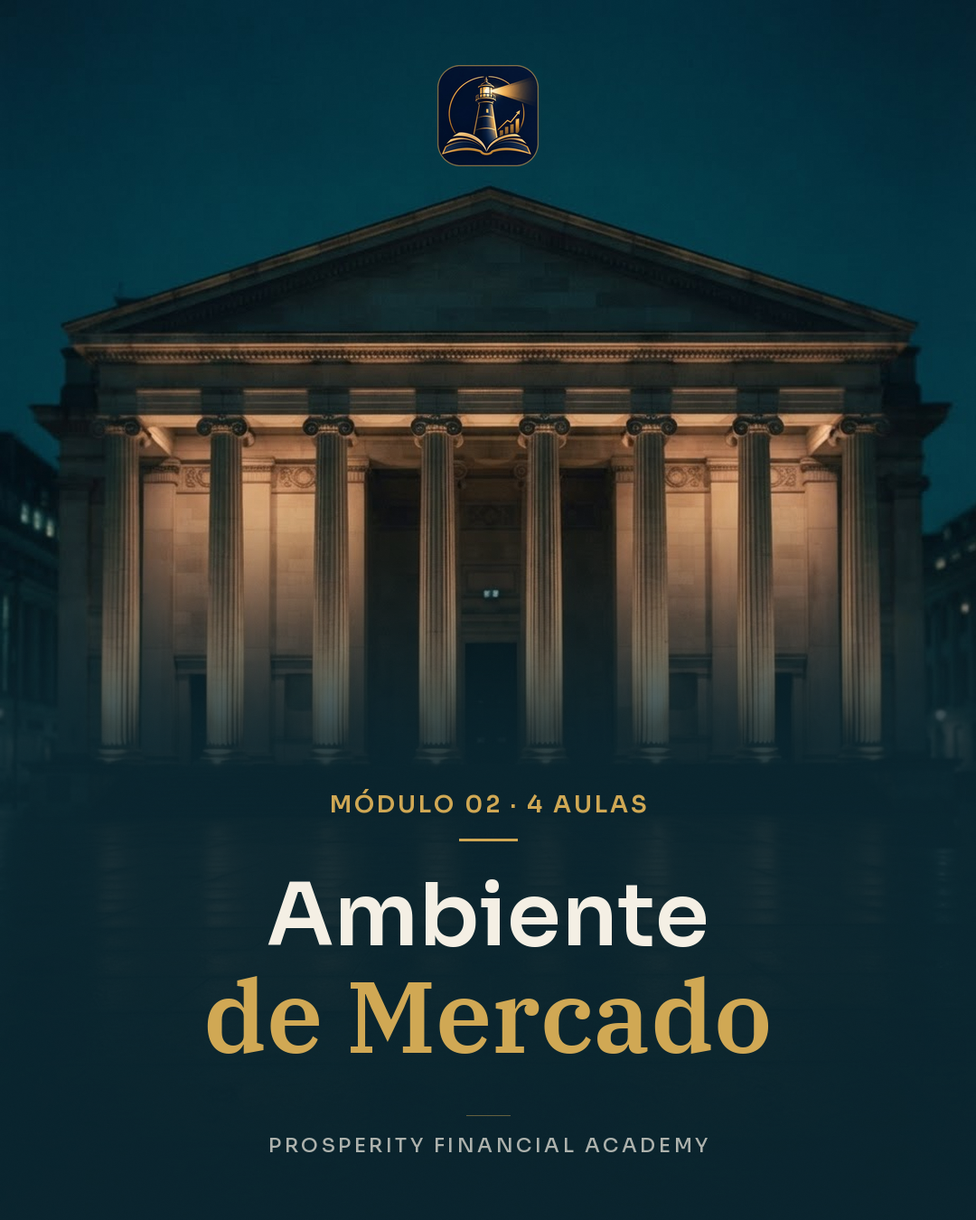
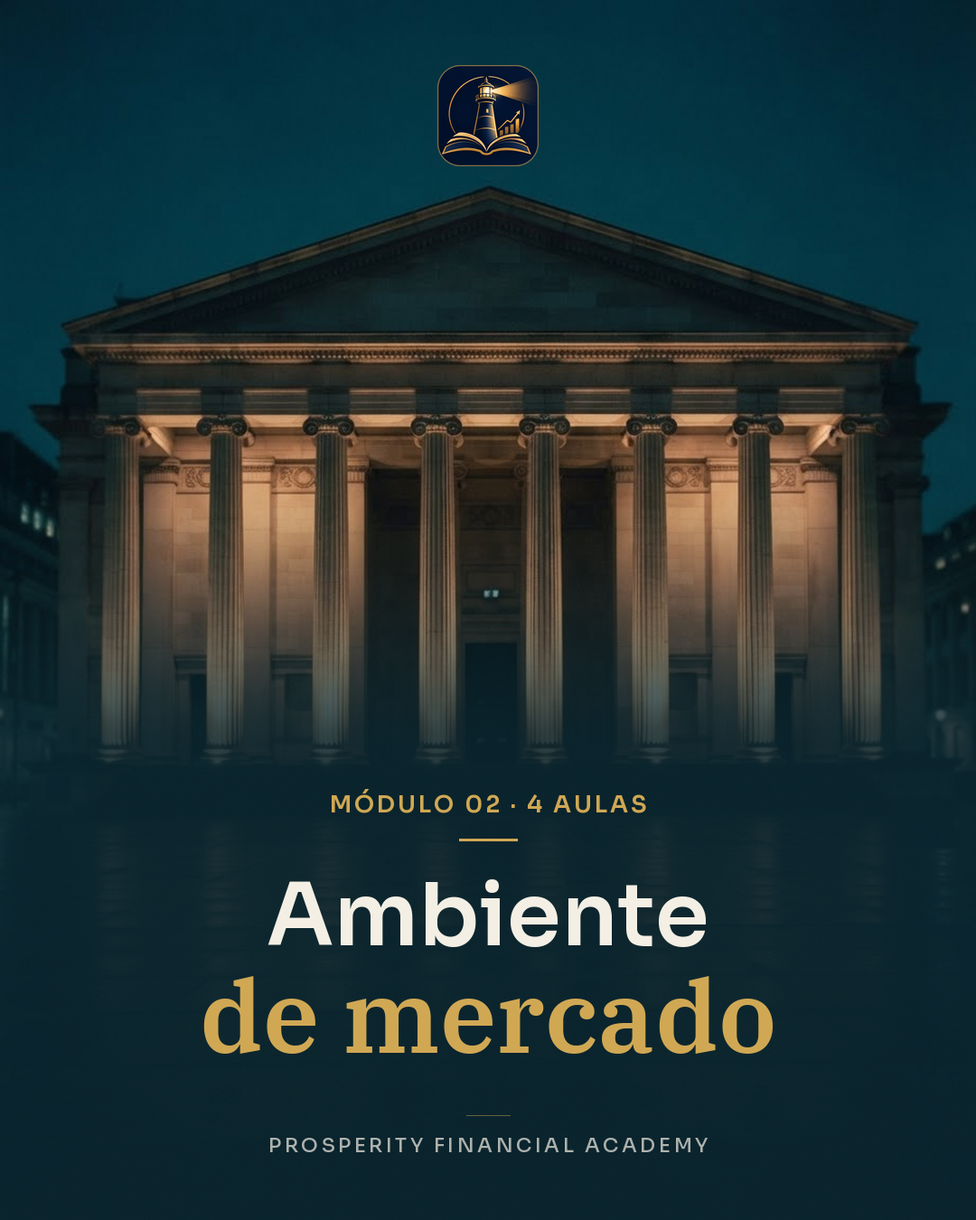
[cc] sandro-preview: renumber module covers to the v3 grid (00-11)
- Member area: Bia's renumbered covers 02 and 06-11 (old 07-12 became 06-11, fundamental analysis out); preview and details pages refreshed from source, keeping noindex, favicon and mobile table scroll
- modulo-12.png no longer referenced (file kept)
- Sales page: new module covers and devices mockups
- Cache bust ?v=20261125b on changed images

Changed region(s): [[0.2139, 0.7778, 0.7944, 0.8711]]

diff --git a/area-de-membros/preview-detalhes.html b/area-de-membros/preview-detalhes.html
@@ -50,12 +50,12 @@ ul{margin:6px 0 6px 20px;padding:0}code{background:#22252d;padding:1px 5px;borde
 <main class="wrap">
 <p><a href="./" style="color:var(--acc)">&larr; voltar à apresentação</a></p>
 <h1>Detalhes técnicos</h1>
-<div class="note"><b>Aprovação, não é a arte final.</b> Preço do checkout é <b>FICTÍCIO</b> (R$ 297 / 12x R$ 24,75). Logo <b>real do Sandro</b> aplicada em 2026-11-25 (selo do farol com livro, de <code>assets/brand/logo-original.jpeg</code>; capas e banners no canto superior, checkout no lockup/topo); versão anterior em <code>_antes-logo-real/</code>, diff de pixel fora da marca = 0 em <code>qa/diff-logo-real.json</code>. Nome comercial do curso: <code>[preencher]</code> (aparece só no bullet 1 do checkout vertical). Ajuste v3 da LP (2026-11-23): 12 módulos e 49 aulas; &quot;relatórios&quot; saiu dos textos, entrou &quot;dividendos&quot;; capa do Módulo 06 (Análise Fundamentalista) fora deste preview, arquivo preservado em <code>artes/modulo-06.png</code>; arte anterior em <code>_aprovada-13m-53a/</code>. Banners de topo, checkout e as 13 capas (v2): fundo fotográfico por IA (nano_banana_lite; 5 + 15 gerações, ~680 créditos no total), texto composto em código; v1 preservada em <code>_v1/</code>. Lateral do checkout agora 1:3 (600x1800).</div>
+<div class="note"><b>Aprovação, não é a arte final.</b> Preço do checkout é <b>FICTÍCIO</b> (R$ 297 / 12x R$ 24,75). Logo <b>real do Sandro</b> aplicada em 2026-11-25 (selo do farol com livro, de <code>assets/brand/logo-original.jpeg</code>; capas e banners no canto superior, checkout no lockup/topo); versão anterior em <code>_antes-logo-real/</code>, diff de pixel fora da marca = 0 em <code>qa/diff-logo-real.json</code>. Nome comercial do curso: <code>[preencher]</code> (aparece só no bullet 1 do checkout vertical). Ajuste v3 da LP (2026-11-23): 12 módulos e 49 aulas; &quot;relatórios&quot; saiu dos textos, entrou &quot;dividendos&quot;; capa da Análise Fundamentalista fora da grade, arquivo preservado em <code>artes/_fora-v3/</code>; arte anterior em <code>_aprovada-13m-53a/</code>. <b>Renumeração v3 (2026-11-25):</b> capas 06 a 11 agora seguem a grade da copy v3 (antigas 07 a 12); só kicker e título mudaram (diff de pixel 0 fora do texto em <code>qa/diff-renumeracao.json</code>); versão anterior em <code>_antes-renumeracao/</code>. Banners de topo, checkout e as 12 capas (v2): fundo fotográfico por IA (nano_banana_lite; 5 + 15 gerações, ~680 créditos no total), texto composto em código; v1 preservada em <code>_v1/</code>. Lateral do checkout agora 1:3 (600x1800).</div>
 <p>
 <a style="color:var(--acc)" href="#antes-depois">Antes x Depois</a> · <a style="color:var(--acc)" href="#mobile">Mobile e alta resolução</a> · <a style="color:var(--acc)" href="#qa">QA</a> · <a style="color:var(--acc)" href="#pendencias">Pendências</a></p>
 
 <h2 id="antes-depois">Antes (v1) x Depois (v2)</h2>
-<div class="pair"><div class="cmp"><figure><a class="zoom" href="banners/_v1/banner-01.png?v=20261125" data-alt="Banner de topo 01 antes"><img src="banners/_v1/banner-01.png?v=20261125" alt="Banner de topo 01 antes (v1)"></a><figcaption><b>Antes (v1, código)</b></figcaption></figure><figure><a class="zoom" href="banners/banner-01.png?v=20261125" data-alt="Banner de topo 01 depois"><img src="banners/banner-01.png?v=20261125" alt="Banner de topo 01 depois (v2)"></a><figcaption><b>Depois (v2, fundo fotográfico)</b></figcaption></figure></div><p class="lab">Banner de topo 01 <small>1920x800</small></p></div><div class="pair"><div class="cmp"><figure><a class="zoom" href="banners/_v1/banner-02.png?v=20261125" data-alt="Banner de topo 02 antes"><img src="banners/_v1/banner-02.png?v=20261125" alt="Banner de topo 02 antes (v1)"></a><figcaption><b>Antes (v1, código)</b></figcaption></figure><figure><a class="zoom" href="banners/banner-02.png?v=20261125" data-alt="Banner de topo 02 depois"><img src="banners/banner-02.png?v=20261125" alt="Banner de topo 02 depois (v2)"></a><figcaption><b>Depois (v2, fundo fotográfico)</b></figcaption></figure></div><p class="lab">Banner de topo 02 <small>1920x800</small></p></div><div class="pair"><div class="cmp"><figure><a class="zoom" href="banners/_v1/banner-03.png?v=20261125" data-alt="Banner de topo 03 antes"><img src="banners/_v1/banner-03.png?v=20261125" alt="Banner de topo 03 antes (v1)"></a><figcaption><b>Antes (v1, código)</b></figcaption></figure><figure><a class="zoom" href="banners/banner-03.png?v=20261125" data-alt="Banner de topo 03 depois"><img src="banners/banner-03.png?v=20261125" alt="Banner de topo 03 depois (v2)"></a><figcaption><b>Depois (v2, fundo fotográfico)</b></figcaption></figure></div><p class="lab">Banner de topo 03 <small>1920x800</small></p></div><div class="pair"><div class="cmp"><figure><a class="zoom" href="banners/_v1/mobile/banner-01-mobile.png?v=20261125" data-alt="Banner mobile 01 antes"><img src="banners/_v1/mobile/banner-01-mobile.png?v=20261125" alt="Banner mobile 01 antes (v1)"></a><figcaption><b>Antes (v1, código)</b></figcaption></figure><figure><a class="zoom" href="banners/mobile/banner-01-mobile.png?v=20261125" data-alt="Banner mobile 01 depois"><img src="banners/mobile/banner-01-mobile.png?v=20261125" alt="Banner mobile 01 depois (v2)"></a><figcaption><b>Depois (v2, fundo fotográfico)</b></figcaption></figure></div><p class="lab">Banner mobile 01 <small>768x432</small></p></div><div class="pair"><div class="cmp"><figure><a class="zoom" href="banners/_v1/mobile/banner-02-mobile.png?v=20261125" data-alt="Banner mobile 02 antes"><img src="banners/_v1/mobile/banner-02-mobile.png?v=20261125" alt="Banner mobile 02 antes (v1)"></a><figcaption><b>Antes (v1, código)</b></figcaption></figure><figure><a class="zoom" href="banners/mobile/banner-02-mobile.png?v=20261125" data-alt="Banner mobile 02 depois"><img src="banners/mobile/banner-02-mobile.png?v=20261125" alt="Banner mobile 02 depois (v2)"></a><figcaption><b>Depois (v2, fundo fotográfico)</b></figcaption></figure></div><p class="lab">Banner mobile 02 <small>768x432</small></p></div><div class="pair"><div class="cmp"><figure><a class="zoom" href="banners/_v1/mobile/banner-03-mobile.png?v=20261125" data-alt="Banner mobile 03 antes"><img src="banners/_v1/mobile/banner-03-mobile.png?v=20261125" alt="Banner mobile 03 antes (v1)"></a><figcaption><b>Antes (v1, código)</b></figcaption></figure><figure><a class="zoom" href="banners/mobile/banner-03-mobile.png?v=20261125" data-alt="Banner mobile 03 depois"><img src="banners/mobile/banner-03-mobile.png?v=20261125" alt="Banner mobile 03 depois (v2)"></a><figcaption><b>Depois (v2, fundo fotográfico)</b></figcaption></figure></div><p class="lab">Banner mobile 03 <small>768x432</small></p></div><div class="pair"><div class="cmp"><figure><a class="zoom" href="checkout/_v1/checkout-horizontal-com-preco-1920x640.png?v=20261125" data-alt="Checkout horizontal COM preço antes"><img src="checkout/_v1/checkout-horizontal-com-preco-1920x640.png?v=20261125" alt="Checkout horizontal COM preço antes (v1)"></a><figcaption><b>Antes (v1, código)</b></figcaption></figure><figure><a class="zoom" href="checkout/checkout-horizontal-com-preco-1920x640.png?v=20261125" data-alt="Checkout horizontal COM preço depois"><img src="checkout/checkout-horizontal-com-preco-1920x640.png?v=20261125" alt="Checkout horizontal COM preço depois (v2)"></a><figcaption><b>Depois (v2, fundo fotográfico)</b></figcaption></figure></div><p class="lab">Checkout horizontal COM preço <small>1920x640 (entrega 1140x380)</small></p></div><div class="pair"><div class="cmp"><figure><a class="zoom" href="checkout/_v1/checkout-horizontal-sem-preco-1920x640.png?v=20261125" data-alt="Checkout horizontal SEM preço antes"><img src="checkout/_v1/checkout-horizontal-sem-preco-1920x640.png?v=20261125" alt="Checkout horizontal SEM preço antes (v1)"></a><figcaption><b>Antes (v1, código)</b></figcaption></figure><figure><a class="zoom" href="checkout/checkout-horizontal-sem-preco-1920x640.png?v=20261125" data-alt="Checkout horizontal SEM preço depois"><img src="checkout/checkout-horizontal-sem-preco-1920x640.png?v=20261125" alt="Checkout horizontal SEM preço depois (v2)"></a><figcaption><b>Depois (v2, fundo fotográfico)</b></figcaption></figure></div><p class="lab">Checkout horizontal SEM preço <small>1920x640 (entrega 1140x380)</small></p></div><div class="pair"><div class="cmp"><figure><a class="zoom" href="checkout/_v1/vertical-1080x1350-foto/checkout-vertical-com-preco.png?v=20261125" data-alt="Checkout lateral COM preço antes"><img src="checkout/_v1/vertical-1080x1350-foto/checkout-vertical-com-preco.png?v=20261125" alt="Checkout lateral COM preço antes (v1)"></a><figcaption><b>Antes (1080x1350, 4:5)</b></figcaption></figure><figure><a class="zoom" href="checkout/checkout-vertical-com-preco.png?v=20261125" data-alt="Checkout lateral COM preço depois"><img src="checkout/checkout-vertical-com-preco.png?v=20261125" alt="Checkout lateral COM preço depois (v2)"></a><figcaption><b>Depois (600x1800, 1:3)</b></figcaption></figure></div><p class="lab">Checkout lateral COM preço <small>1080x1350 (4:5) -> 600x1800 (1:3)</small></p></div><div class="pair"><div class="cmp"><figure><a class="zoom" href="checkout/_v1/vertical-1080x1350-foto/checkout-vertical-sem-preco.png?v=20261125" data-alt="Checkout lateral SEM preço antes"><img src="checkout/_v1/vertical-1080x1350-foto/checkout-vertical-sem-preco.png?v=20261125" alt="Checkout lateral SEM preço antes (v1)"></a><figcaption><b>Antes (1080x1350, 4:5)</b></figcaption></figure><figure><a class="zoom" href="checkout/checkout-vertical-sem-preco.png?v=20261125" data-alt="Checkout lateral SEM preço depois"><img src="checkout/checkout-vertical-sem-preco.png?v=20261125" alt="Checkout lateral SEM preço depois (v2)"></a><figcaption><b>Depois (600x1800, 1:3)</b></figcaption></figure></div><p class="lab">Checkout lateral SEM preço <small>1080x1350 (4:5) -> 600x1800 (1:3)</small></p></div><div class="pair"><div class="cmp"><figure><a class="zoom" href="artes/_v1/modulo-00.png?v=20261125" data-alt="Capa módulo 00 - Comece por aqui antes"><img src="artes/_v1/modulo-00.png?v=20261125" alt="Capa módulo 00 - Comece por aqui antes (v1)"></a><figcaption><b>Antes (v1, ilustração em código)</b></figcaption></figure><figure><a class="zoom" href="artes/modulo-00.png?v=20261125" data-alt="Capa módulo 00 - Comece por aqui depois"><img src="artes/modulo-00.png?v=20261125" alt="Capa módulo 00 - Comece por aqui depois (v2)"></a><figcaption><b>Depois (v2, fundo fotográfico)</b></figcaption></figure></div><p class="lab">Capa módulo 00 - Comece por aqui <small>1080x1350</small></p></div><div class="pair"><div class="cmp"><figure><a class="zoom" href="artes/_v1/modulo-01.png?v=20261125" data-alt="Capa módulo 01 - Boas-vindas antes"><img src="artes/_v1/modulo-01.png?v=20261125" alt="Capa módulo 01 - Boas-vindas antes (v1)"></a><figcaption><b>Antes (v1, ilustração em código)</b></figcaption></figure><figure><a class="zoom" href="artes/modulo-01.png?v=20261125" data-alt="Capa módulo 01 - Boas-vindas depois"><img src="artes/modulo-01.png?v=20261125" alt="Capa módulo 01 - Boas-vindas depois (v2)"></a><figcaption><b>Depois (v2, fundo fotográfico)</b></figcaption></figure></div><p class="lab">Capa módulo 01 - Boas-vindas <small>1080x1350</small></p></div><div class="pair"><div class="cmp"><figure><a class="zoom" href="artes/_v1/modulo-02.png?v=20261125" data-alt="Capa módulo 02 - Ambiente de Mercado antes"><img src="artes/_v1/modulo-02.png?v=20261125" alt="Capa módulo 02 - Ambiente de Mercado antes (v1)"></a><figcaption><b>Antes (v1, ilustração em código)</b></figcaption></figure><figure><a class="zoom" href="artes/modulo-02.png?v=20261125" data-alt="Capa módulo 02 - Ambiente de Mercado depois"><img src="artes/modulo-02.png?v=20261125" alt="Capa módulo 02 - Ambiente de Mercado depois (v2)"></a><figcaption><b>Depois (v2, fundo fotográfico)</b></figcaption></figure></div><p class="lab">Capa módulo 02 - Ambiente de Mercado <small>1080x1350</small></p></div><div class="pair"><div class="cmp"><figure><a class="zoom" href="artes/_v1/modulo-03.png?v=20261125" data-alt="Capa módulo 03 - Mercado de ações antes"><img src="artes/_v1/modulo-03.png?v=20261125" alt="Capa módulo 03 - Mercado de ações antes (v1)"></a><figcaption><b>Antes (v1, ilustração em código)</b></figcaption></figure><figure><a class="zoom" href="artes/modulo-03.png?v=20261125" data-alt="Capa módulo 03 - Mercado de ações depois"><img src="artes/modulo-03.png?v=20261125" alt="Capa módulo 03 - Mercado de ações depois (v2)"></a><figcaption><b>Depois (v2, fundo fotográfico)</b></figcaption></figure></div><p class="lab">Capa módulo 03 - Mercado de ações <small>1080x1350</small></p></div><div class="pair"><div class="cmp"><figure><a class="zoom" href="artes/_v1/modulo-04.png?v=20261125" data-alt="Capa módulo 04 - Plataforma de negociação antes"><img src="artes/_v1/modulo-04.png?v=20261125" alt="Capa módulo 04 - Plataforma de negociação antes (v1)"></a><figcaption><b>Antes (v1, ilustração em código)</b></figcaption></figure><figure><a class="zoom" href="artes/modulo-04.png?v=20261125" data-alt="Capa módulo 04 - Plataforma de negociação depois"><img src="artes/modulo-04.png?v=20261125" alt="Capa módulo 04 - Plataforma de negociação depois (v2)"></a><figcaption><b>Depois (v2, fundo fotográfico)</b></figcaption></figure></div><p class="lab">Capa módulo 04 - Plataforma de negociação <small>1080x1350</small></p></div><div class="pair"><div class="cmp"><figure><a class="zoom" href="artes/_v1/modulo-05.png?v=20261125" data-alt="Capa módulo 05 - Introdução à metodologia antes"><img src="artes/_v1/modulo-05.png?v=20261125" alt="Capa módulo 05 - Introdução à metodologia antes (v1)"></a><figcaption><b>Antes (v1, ilustração em código)</b></figcaption></figure><figure><a class="zoom" href="artes/modulo-05.png?v=20261125" data-alt="Capa módulo 05 - Introdução à metodologia depois"><img src="artes/modulo-05.png?v=20261125" alt="Capa módulo 05 - Introdução à metodologia depois (v2)"></a><figcaption><b>Depois (v2, fundo fotográfico)</b></figcaption></figure></div><p class="lab">Capa módulo 05 - Introdução à metodologia <small>1080x1350</small></p></div><div class="pair"><div class="cmp"><figure><a class="zoom" href="artes/_v1/modulo-06.png?v=20261125" data-alt="Capa módulo 06 - Análise Fundamentalista antes"><img src="artes/_v1/modulo-06.png?v=20261125" alt="Capa módulo 06 - Análise Fundamentalista antes (v1)"></a><figcaption><b>Antes (v1, ilustração em código)</b></figcaption></figure><figure><a class="zoom" href="artes/modulo-06.png?v=20261125" data-alt="Capa módulo 06 - Análise Fundamentalista depois"><img src="artes/modulo-06.png?v=20261125" alt="Capa módulo 06 - Análise Fundamentalista depois (v2)"></a><figcaption><b>Depois (v2, fundo fotográfico)</b></figcaption></figure></div><p class="lab">Capa módulo 06 - Análise Fundamentalista <small>1080x1350</small></p></div><div class="pair"><div class="cmp"><figure><a class="zoom" href="artes/_v1/modulo-07.png?v=20261125" data-alt="Capa módulo 07 - Análise Técnica antes"><img src="artes/_v1/modulo-07.png?v=20261125" alt="Capa módulo 07 - Análise Técnica antes (v1)"></a><figcaption><b>Antes (v1, ilustração em código)</b></figcaption></figure><figure><a class="zoom" href="artes/modulo-07.png?v=20261125" data-alt="Capa módulo 07 - Análise Técnica depois"><img src="artes/modulo-07.png?v=20261125" alt="Capa módulo 07 - Análise Técnica depois (v2)"></a><figcaption><b>Depois (v2, fundo fotográfico)</b></figcaption></figure></div><p class="lab">Capa módulo 07 - Análise Técnica <small>1080x1350</small></p></div><div class="pair"><div class="cmp"><figure><a class="zoom" href="artes/_v1/modulo-08.png?v=20261125" data-alt="Capa módulo 08 - Tributação antes"><img src="artes/_v1/modulo-08.png?v=20261125" alt="Capa módulo 08 - Tributação antes (v1)"></a><figcaption><b>Antes (v1, ilustração em código)</b></figcaption></figure><figure><a class="zoom" href="artes/modulo-08.png?v=20261125" data-alt="Capa módulo 08 - Tributação depois"><img src="artes/modulo-08.png?v=20261125" alt="Capa módulo 08 - Tributação depois (v2)"></a><figcaption><b>Depois (v2, fundo fotográfico)</b></figcaption></figure></div><p class="lab">Capa módulo 08 - Tributação <small>1080x1350</small></p></div><div class="pair"><div class="cmp"><figure><a class="zoom" href="artes/_v1/modulo-09.png?v=20261125" data-alt="Capa módulo 09 - Síntese antes"><img src="artes/_v1/modulo-09.png?v=20261125" alt="Capa módulo 09 - Síntese antes (v1)"></a><figcaption><b>Antes (v1, ilustração em código)</b></figcaption></figure><figure><a class="zoom" href="artes/modulo-09.png?v=20261125" data-alt="Capa módulo 09 - Síntese depois"><img src="artes/modulo-09.png?v=20261125" alt="Capa módulo 09 - Síntese depois (v2)"></a><figcaption><b>Depois (v2, fundo fotográfico)</b></figcaption></figure></div><p class="lab">Capa módulo 09 - Síntese <small>1080x1350</small></p></div><div class="pair"><div class="cmp"><figure><a class="zoom" href="artes/_v1/modulo-10.png?v=20261125" data-alt="Capa módulo 10 - Aula Bônus antes"><img src="artes/_v1/modulo-10.png?v=20261125" alt="Capa módulo 10 - Aula Bônus antes (v1)"></a><figcaption><b>Antes (v1, ilustração em código)</b></figcaption></figure><figure><a class="zoom" href="artes/modulo-10.png?v=20261125" data-alt="Capa módulo 10 - Aula Bônus depois"><img src="artes/modulo-10.png?v=20261125" alt="Capa módulo 10 - Aula Bônus depois (v2)"></a><figcaption><b>Depois (v2, fundo fotográfico)</b></figcaption></figure></div><p class="lab">Capa módulo 10 - Aula Bônus <small>1080x1350</small></p></div><div class="pair"><div class="cmp"><figure><a class="zoom" href="artes/_v1/modulo-11.png?v=20261125" data-alt="Capa módulo 11 - Candle antes"><img src="artes/_v1/modulo-11.png?v=20261125" alt="Capa módulo 11 - Candle antes (v1)"></a><figcaption><b>Antes (v1, ilustração em código)</b></figcaption></figure><figure><a class="zoom" href="artes/modulo-11.png?v=20261125" data-alt="Capa módulo 11 - Candle depois"><img src="artes/modulo-11.png?v=20261125" alt="Capa módulo 11 - Candle depois (v2)"></a><figcaption><b>Depois (v2, fundo fotográfico)</b></figcaption></figure></div><p class="lab">Capa módulo 11 - Candle <small>1080x1350</small></p></div><div class="pair"><div class="cmp"><figure><a class="zoom" href="artes/_v1/modulo-12.png?v=20261125" data-alt="Capa módulo 12 - Materiais complementares antes"><img src="artes/_v1/modulo-12.png?v=20261125" alt="Capa módulo 12 - Materiais complementares antes (v1)"></a><figcaption><b>Antes (v1, ilustração em código)</b></figcaption></figure><figure><a class="zoom" href="artes/modulo-12.png?v=20261125" data-alt="Capa módulo 12 - Materiais complementares depois"><img src="artes/modulo-12.png?v=20261125" alt="Capa módulo 12 - Materiais complementares depois (v2)"></a><figcaption><b>Depois (v2, fundo fotográfico)</b></figcaption></figure></div><p class="lab">Capa módulo 12 - Materiais complementares <small>1080x1350</small></p></div>
+<div class="pair"><div class="cmp"><figure><a class="zoom" href="banners/_v1/banner-01.png?v=20261125" data-alt="Banner de topo 01 antes"><img src="banners/_v1/banner-01.png?v=20261125" alt="Banner de topo 01 antes (v1)"></a><figcaption><b>Antes (v1, código)</b></figcaption></figure><figure><a class="zoom" href="banners/banner-01.png?v=20261125" data-alt="Banner de topo 01 depois"><img src="banners/banner-01.png?v=20261125" alt="Banner de topo 01 depois (v2)"></a><figcaption><b>Depois (v2, fundo fotográfico)</b></figcaption></figure></div><p class="lab">Banner de topo 01 <small>1920x800</small></p></div><div class="pair"><div class="cmp"><figure><a class="zoom" href="banners/_v1/banner-02.png?v=20261125" data-alt="Banner de topo 02 antes"><img src="banners/_v1/banner-02.png?v=20261125" alt="Banner de topo 02 antes (v1)"></a><figcaption><b>Antes (v1, código)</b></figcaption></figure><figure><a class="zoom" href="banners/banner-02.png?v=20261125" data-alt="Banner de topo 02 depois"><img src="banners/banner-02.png?v=20261125" alt="Banner de topo 02 depois (v2)"></a><figcaption><b>Depois (v2, fundo fotográfico)</b></figcaption></figure></div><p class="lab">Banner de topo 02 <small>1920x800</small></p></div><div class="pair"><div class="cmp"><figure><a class="zoom" href="banners/_v1/banner-03.png?v=20261125" data-alt="Banner de topo 03 antes"><img src="banners/_v1/banner-03.png?v=20261125" alt="Banner de topo 03 antes (v1)"></a><figcaption><b>Antes (v1, código)</b></figcaption></figure><figure><a class="zoom" href="banners/banner-03.png?v=20261125" data-alt="Banner de topo 03 depois"><img src="banners/banner-03.png?v=20261125" alt="Banner de topo 03 depois (v2)"></a><figcaption><b>Depois (v2, fundo fotográfico)</b></figcaption></figure></div><p class="lab">Banner de topo 03 <small>1920x800</small></p></div><div class="pair"><div class="cmp"><figure><a class="zoom" href="banners/_v1/mobile/banner-01-mobile.png?v=20261125" data-alt="Banner mobile 01 antes"><img src="banners/_v1/mobile/banner-01-mobile.png?v=20261125" alt="Banner mobile 01 antes (v1)"></a><figcaption><b>Antes (v1, código)</b></figcaption></figure><figure><a class="zoom" href="banners/mobile/banner-01-mobile.png?v=20261125" data-alt="Banner mobile 01 depois"><img src="banners/mobile/banner-01-mobile.png?v=20261125" alt="Banner mobile 01 depois (v2)"></a><figcaption><b>Depois (v2, fundo fotográfico)</b></figcaption></figure></div><p class="lab">Banner mobile 01 <small>768x432</small></p></div><div class="pair"><div class="cmp"><figure><a class="zoom" href="banners/_v1/mobile/banner-02-mobile.png?v=20261125" data-alt="Banner mobile 02 antes"><img src="banners/_v1/mobile/banner-02-mobile.png?v=20261125" alt="Banner mobile 02 antes (v1)"></a><figcaption><b>Antes (v1, código)</b></figcaption></figure><figure><a class="zoom" href="banners/mobile/banner-02-mobile.png?v=20261125" data-alt="Banner mobile 02 depois"><img src="banners/mobile/banner-02-mobile.png?v=20261125" alt="Banner mobile 02 depois (v2)"></a><figcaption><b>Depois (v2, fundo fotográfico)</b></figcaption></figure></div><p class="lab">Banner mobile 02 <small>768x432</small></p></div><div class="pair"><div class="cmp"><figure><a class="zoom" href="banners/_v1/mobile/banner-03-mobile.png?v=20261125" data-alt="Banner mobile 03 antes"><img src="banners/_v1/mobile/banner-03-mobile.png?v=20261125" alt="Banner mobile 03 antes (v1)"></a><figcaption><b>Antes (v1, código)</b></figcaption></figure><figure><a class="zoom" href="banners/mobile/banner-03-mobile.png?v=20261125" data-alt="Banner mobile 03 depois"><img src="banners/mobile/banner-03-mobile.png?v=20261125" alt="Banner mobile 03 depois (v2)"></a><figcaption><b>Depois (v2, fundo fotográfico)</b></figcaption></figure></div><p class="lab">Banner mobile 03 <small>768x432</small></p></div><div class="pair"><div class="cmp"><figure><a class="zoom" href="checkout/_v1/checkout-horizontal-com-preco-1920x640.png?v=20261125" data-alt="Checkout horizontal COM preço antes"><img src="checkout/_v1/checkout-horizontal-com-preco-1920x640.png?v=20261125" alt="Checkout horizontal COM preço antes (v1)"></a><figcaption><b>Antes (v1, código)</b></figcaption></figure><figure><a class="zoom" href="checkout/checkout-horizontal-com-preco-1920x640.png?v=20261125" data-alt="Checkout horizontal COM preço depois"><img src="checkout/checkout-horizontal-com-preco-1920x640.png?v=20261125" alt="Checkout horizontal COM preço depois (v2)"></a><figcaption><b>Depois (v2, fundo fotográfico)</b></figcaption></figure></div><p class="lab">Checkout horizontal COM preço <small>1920x640 (entrega 1140x380)</small></p></div><div class="pair"><div class="cmp"><figure><a class="zoom" href="checkout/_v1/checkout-horizontal-sem-preco-1920x640.png?v=20261125" data-alt="Checkout horizontal SEM preço antes"><img src="checkout/_v1/checkout-horizontal-sem-preco-1920x640.png?v=20261125" alt="Checkout horizontal SEM preço antes (v1)"></a><figcaption><b>Antes (v1, código)</b></figcaption></figure><figure><a class="zoom" href="checkout/checkout-horizontal-sem-preco-1920x640.png?v=20261125" data-alt="Checkout horizontal SEM preço depois"><img src="checkout/checkout-horizontal-sem-preco-1920x640.png?v=20261125" alt="Checkout horizontal SEM preço depois (v2)"></a><figcaption><b>Depois (v2, fundo fotográfico)</b></figcaption></figure></div><p class="lab">Checkout horizontal SEM preço <small>1920x640 (entrega 1140x380)</small></p></div><div class="pair"><div class="cmp"><figure><a class="zoom" href="checkout/_v1/vertical-1080x1350-foto/checkout-vertical-com-preco.png?v=20261125" data-alt="Checkout lateral COM preço antes"><img src="checkout/_v1/vertical-1080x1350-foto/checkout-vertical-com-preco.png?v=20261125" alt="Checkout lateral COM preço antes (v1)"></a><figcaption><b>Antes (1080x1350, 4:5)</b></figcaption></figure><figure><a class="zoom" href="checkout/checkout-vertical-com-preco.png?v=20261125" data-alt="Checkout lateral COM preço depois"><img src="checkout/checkout-vertical-com-preco.png?v=20261125" alt="Checkout lateral COM preço depois (v2)"></a><figcaption><b>Depois (600x1800, 1:3)</b></figcaption></figure></div><p class="lab">Checkout lateral COM preço <small>1080x1350 (4:5) -> 600x1800 (1:3)</small></p></div><div class="pair"><div class="cmp"><figure><a class="zoom" href="checkout/_v1/vertical-1080x1350-foto/checkout-vertical-sem-preco.png?v=20261125" data-alt="Checkout lateral SEM preço antes"><img src="checkout/_v1/vertical-1080x1350-foto/checkout-vertical-sem-preco.png?v=20261125" alt="Checkout lateral SEM preço antes (v1)"></a><figcaption><b>Antes (1080x1350, 4:5)</b></figcaption></figure><figure><a class="zoom" href="checkout/checkout-vertical-sem-preco.png?v=20261125" data-alt="Checkout lateral SEM preço depois"><img src="checkout/checkout-vertical-sem-preco.png?v=20261125" alt="Checkout lateral SEM preço depois (v2)"></a><figcaption><b>Depois (600x1800, 1:3)</b></figcaption></figure></div><p class="lab">Checkout lateral SEM preço <small>1080x1350 (4:5) -> 600x1800 (1:3)</small></p></div><div class="pair"><div class="cmp"><figure><a class="zoom" href="artes/_v1/modulo-00.png?v=20261125" data-alt="Capa módulo 00 - Comece por aqui antes"><img src="artes/_v1/modulo-00.png?v=20261125" alt="Capa módulo 00 - Comece por aqui antes (v1)"></a><figcaption><b>Antes (v1, ilustração em código)</b></figcaption></figure><figure><a class="zoom" href="artes/modulo-00.png?v=20261125" data-alt="Capa módulo 00 - Comece por aqui depois"><img src="artes/modulo-00.png?v=20261125" alt="Capa módulo 00 - Comece por aqui depois (v2)"></a><figcaption><b>Depois (v2, fundo fotográfico)</b></figcaption></figure></div><p class="lab">Capa módulo 00 - Comece por aqui <small>1080x1350</small></p></div><div class="pair"><div class="cmp"><figure><a class="zoom" href="artes/_v1/modulo-01.png?v=20261125" data-alt="Capa módulo 01 - Boas-vindas antes"><img src="artes/_v1/modulo-01.png?v=20261125" alt="Capa módulo 01 - Boas-vindas antes (v1)"></a><figcaption><b>Antes (v1, ilustração em código)</b></figcaption></figure><figure><a class="zoom" href="artes/modulo-01.png?v=20261125" data-alt="Capa módulo 01 - Boas-vindas depois"><img src="artes/modulo-01.png?v=20261125" alt="Capa módulo 01 - Boas-vindas depois (v2)"></a><figcaption><b>Depois (v2, fundo fotográfico)</b></figcaption></figure></div><p class="lab">Capa módulo 01 - Boas-vindas <small>1080x1350</small></p></div><div class="pair"><div class="cmp"><figure><a class="zoom" href="artes/_v1/modulo-02.png?v=20261125" data-alt="Capa módulo 02 - Ambiente de mercado antes"><img src="artes/_v1/modulo-02.png?v=20261125" alt="Capa módulo 02 - Ambiente de mercado antes (v1)"></a><figcaption><b>Antes (v1, ilustração em código)</b></figcaption></figure><figure><a class="zoom" href="artes/modulo-02.png?v=20261125b" data-alt="Capa módulo 02 - Ambiente de mercado depois"><img src="artes/modulo-02.png?v=20261125b" alt="Capa módulo 02 - Ambiente de mercado depois (v2)"></a><figcaption><b>Depois (v2, fundo fotográfico)</b></figcaption></figure></div><p class="lab">Capa módulo 02 - Ambiente de mercado <small>1080x1350</small></p></div><div class="pair"><div class="cmp"><figure><a class="zoom" href="artes/_v1/modulo-03.png?v=20261125" data-alt="Capa módulo 03 - Mercado de ações antes"><img src="artes/_v1/modulo-03.png?v=20261125" alt="Capa módulo 03 - Mercado de ações antes (v1)"></a><figcaption><b>Antes (v1, ilustração em código)</b></figcaption></figure><figure><a class="zoom" href="artes/modulo-03.png?v=20261125" data-alt="Capa módulo 03 - Mercado de ações depois"><img src="artes/modulo-03.png?v=20261125" alt="Capa módulo 03 - Mercado de ações depois (v2)"></a><figcaption><b>Depois (v2, fundo fotográfico)</b></figcaption></figure></div><p class="lab">Capa módulo 03 - Mercado de ações <small>1080x1350</small></p></div><div class="pair"><div class="cmp"><figure><a class="zoom" href="artes/_v1/modulo-04.png?v=20261125" data-alt="Capa módulo 04 - Plataforma de negociação antes"><img src="artes/_v1/modulo-04.png?v=20261125" alt="Capa módulo 04 - Plataforma de negociação antes (v1)"></a><figcaption><b>Antes (v1, ilustração em código)</b></figcaption></figure><figure><a class="zoom" href="artes/modulo-04.png?v=20261125" data-alt="Capa módulo 04 - Plataforma de negociação depois"><img src="artes/modulo-04.png?v=20261125" alt="Capa módulo 04 - Plataforma de negociação depois (v2)"></a><figcaption><b>Depois (v2, fundo fotográfico)</b></figcaption></figure></div><p class="lab">Capa módulo 04 - Plataforma de negociação <small>1080x1350</small></p></div><div class="pair"><div class="cmp"><figure><a class="zoom" href="artes/_v1/modulo-05.png?v=20261125" data-alt="Capa módulo 05 - Introdução à metodologia antes"><img src="artes/_v1/modulo-05.png?v=20261125" alt="Capa módulo 05 - Introdução à metodologia antes (v1)"></a><figcaption><b>Antes (v1, ilustração em código)</b></figcaption></figure><figure><a class="zoom" href="artes/modulo-05.png?v=20261125" data-alt="Capa módulo 05 - Introdução à metodologia depois"><img src="artes/modulo-05.png?v=20261125" alt="Capa módulo 05 - Introdução à metodologia depois (v2)"></a><figcaption><b>Depois (v2, fundo fotográfico)</b></figcaption></figure></div><p class="lab">Capa módulo 05 - Introdução à metodologia <small>1080x1350</small></p></div><div class="pair"><div class="cmp"><figure><a class="zoom" href="artes/_v1/modulo-07.png?v=20261125" data-alt="Capa módulo 06 - Análise técnica antes"><img src="artes/_v1/modulo-07.png?v=20261125" alt="Capa módulo 06 - Análise técnica antes (v1)"></a><figcaption><b>Antes (v1, ilustração em código)</b></figcaption></figure><figure><a class="zoom" href="artes/modulo-06.png?v=20261125b" data-alt="Capa módulo 06 - Análise técnica depois"><img src="artes/modulo-06.png?v=20261125b" alt="Capa módulo 06 - Análise técnica depois (v2)"></a><figcaption><b>Depois (v2, fundo fotográfico)</b></figcaption></figure></div><p class="lab">Capa módulo 06 - Análise técnica <small>1080x1350</small></p></div><div class="pair"><div class="cmp"><figure><a class="zoom" href="artes/_v1/modulo-08.png?v=20261125" data-alt="Capa módulo 07 - Tributação antes"><img src="artes/_v1/modulo-08.png?v=20261125" alt="Capa módulo 07 - Tributação antes (v1)"></a><figcaption><b>Antes (v1, ilustração em código)</b></figcaption></figure><figure><a class="zoom" href="artes/modulo-07.png?v=20261125b" data-alt="Capa módulo 07 - Tributação depois"><img src="artes/modulo-07.png?v=20261125b" alt="Capa módulo 07 - Tributação depois (v2)"></a><figcaption><b>Depois (v2, fundo fotográfico)</b></figcaption></figure></div><p class="lab">Capa módulo 07 - Tributação <small>1080x1350</small></p></div><div class="pair"><div class="cmp"><figure><a class="zoom" href="artes/_v1/modulo-09.png?v=20261125" data-alt="Capa módulo 08 - Síntese antes"><img src="artes/_v1/modulo-09.png?v=20261125" alt="Capa módulo 08 - Síntese antes (v1)"></a><figcaption><b>Antes (v1, ilustração em código)</b></figcaption></figure><figure><a class="zoom" href="artes/modulo-08.png?v=20261125b" data-alt="Capa módulo 08 - Síntese depois"><img src="artes/modulo-08.png?v=20261125b" alt="Capa módulo 08 - Síntese depois (v2)"></a><figcaption><b>Depois (v2, fundo fotográfico)</b></figcaption></figure></div><p class="lab">Capa módulo 08 - Síntese <small>1080x1350</small></p></div><div class="pair"><div class="cmp"><figure><a class="zoom" href="artes/_v1/modulo-10.png?v=20261125" data-alt="Capa módulo 09 - Aula bônus antes"><img src="artes/_v1/modulo-10.png?v=20261125" alt="Capa módulo 09 - Aula bônus antes (v1)"></a><figcaption><b>Antes (v1, ilustração em código)</b></figcaption></figure><figure><a class="zoom" href="artes/modulo-09.png?v=20261125b" data-alt="Capa módulo 09 - Aula bônus depois"><img src="artes/modulo-09.png?v=20261125b" alt="Capa módulo 09 - Aula bônus depois (v2)"></a><figcaption><b>Depois (v2, fundo fotográfico)</b></figcaption></figure></div><p class="lab">Capa módulo 09 - Aula bônus <small>1080x1350</small></p></div><div class="pair"><div class="cmp"><figure><a class="zoom" href="artes/_v1/modulo-11.png?v=20261125" data-alt="Capa módulo 10 - Candle antes"><img src="artes/_v1/modulo-11.png?v=20261125" alt="Capa módulo 10 - Candle antes (v1)"></a><figcaption><b>Antes (v1, ilustração em código)</b></figcaption></figure><figure><a class="zoom" href="artes/modulo-10.png?v=20261125b" data-alt="Capa módulo 10 - Candle depois"><img src="artes/modulo-10.png?v=20261125b" alt="Capa módulo 10 - Candle depois (v2)"></a><figcaption><b>Depois (v2, fundo fotográfico)</b></figcaption></figure></div><p class="lab">Capa módulo 10 - Candle <small>1080x1350</small></p></div><div class="pair"><div class="cmp"><figure><a class="zoom" href="artes/_v1/modulo-12.png?v=20261125" data-alt="Capa módulo 11 - Materiais complementares antes"><img src="artes/_v1/modulo-12.png?v=20261125" alt="Capa módulo 11 - Materiais complementares antes (v1)"></a><figcaption><b>Antes (v1, ilustração em código)</b></figcaption></figure><figure><a class="zoom" href="artes/modulo-11.png?v=20261125b" data-alt="Capa módulo 11 - Materiais complementares depois"><img src="artes/modulo-11.png?v=20261125b" alt="Capa módulo 11 - Materiais complementares depois (v2)"></a><figcaption><b>Depois (v2, fundo fotográfico)</b></figcaption></figure></div><p class="lab">Capa módulo 11 - Materiais complementares <small>1080x1350</small></p></div>
 <h2 id="mobile">Banners mobile (768x432) e checkout horizontal em alta resolução (1920x640)</h2>
 <div class="row3"><figure><a class="zoom" href="banners/mobile/banner-01-mobile.png?v=20261125" data-alt="Mobile 01"><img src="banners/mobile/banner-01-mobile.png?v=20261125" alt="Banner mobile 01"></a><figcaption>Mobile 01 <small>768x432</small></figcaption></figure>
 <figure><a class="zoom" href="banners/mobile/banner-02-mobile.png?v=20261125" data-alt="Mobile 02"><img src="banners/mobile/banner-02-mobile.png?v=20261125" alt="Banner mobile 02"></a><figcaption>Mobile 02 <small>768x432</small></figcaption></figure>
@@ -66,34 +66,32 @@ ul{margin:6px 0 6px 20px;padding:0}code{background:#22252d;padding:1px 5px;borde
 </div>
 
 <h2 id="qa">QA</h2>
-<div class="note"><b>Resultado: OK, 0 falhas</b> · dimensões 27/27 · Δ luminância das capas 137.6-209.2 (meta &gt; 60) · maior largura de tinta 683px (≤ 690) · maior altura 109px (≤ 120)</div>
+<div class="note"><b>Resultado: OK, 0 falhas</b> · dimensões 26/26 · Δ luminância das capas 137.5-209.2 (meta &gt; 60) · maior largura de tinta 683px (≤ 690) · maior altura 109px (≤ 120)</div>
 <table><tr><th>Mód.</th><th>Linha</th><th>Δlum</th><th>Δlum 25%</th><th>Largura</th><th>Altura</th><th>Margens E/D</th><th>Gap</th></tr>
 <tr><td>00</td><td>Comece</td><td>207.7</td><td>207.7</td><td>405</td><td>74</td><td>338/337</td><td>-</td></tr>
 <tr><td>00</td><td>por aqui</td><td>139.8</td><td>139.8</td><td>450</td><td>108</td><td>315/315</td><td>32</td></tr>
 <tr><td>01</td><td>Boas-vindas</td><td>138.6</td><td>138.5</td><td>657</td><td>87</td><td>212/211</td><td>-</td></tr>
 <tr><td>02</td><td>Ambiente</td><td>207.1</td><td>207.1</td><td>484</td><td>75</td><td>297/299</td><td>-</td></tr>
-<tr><td>02</td><td>de Mercado</td><td>139.6</td><td>139.5</td><td>620</td><td>86</td><td>230/230</td><td>32</td></tr>
+<tr><td>02</td><td>de mercado</td><td>139.6</td><td>139.5</td><td>629</td><td>86</td><td>226/225</td><td>32</td></tr>
 <tr><td>03</td><td>Mercado</td><td>207.5</td><td>207.4</td><td>425</td><td>72</td><td>330/325</td><td>-</td></tr>
 <tr><td>03</td><td>de ações</td><td>139.4</td><td>139.4</td><td>453</td><td>108</td><td>314/313</td><td>32</td></tr>
 <tr><td>04</td><td>Plataforma</td><td>203.9</td><td>203.9</td><td>522</td><td>73</td><td>280/278</td><td>-</td></tr>
 <tr><td>04</td><td>de negociação</td><td>137.8</td><td>137.8</td><td>678</td><td>97</td><td>201/201</td><td>32</td></tr>
 <tr><td>05</td><td>Introdução</td><td>209.2</td><td>209.2</td><td>534</td><td>101</td><td>276/270</td><td>-</td></tr>
 <tr><td>05</td><td>à metodologia</td><td>139.1</td><td>139.1</td><td>680</td><td>102</td><td>201/199</td><td>26</td></tr>
-<tr><td>06</td><td>Análise</td><td>208.4</td><td>208.4</td><td>359</td><td>81</td><td>360/361</td><td>-</td></tr>
-<tr><td>06</td><td>Fundamentalista</td><td>140.3</td><td>140.2</td><td>679</td><td>64</td><td>202/199</td><td>32</td></tr>
-<tr><td>07</td><td>Análise</td><td>205.0</td><td>205.0</td><td>359</td><td>81</td><td>360/361</td><td>-</td></tr>
-<tr><td>07</td><td>Técnica</td><td>137.6</td><td>137.6</td><td>424</td><td>91</td><td>328/328</td><td>32</td></tr>
-<tr><td>08</td><td>Tributação</td><td>138.9</td><td>138.9</td><td>593</td><td>109</td><td>243/244</td><td>-</td></tr>
-<tr><td>09</td><td>Síntese</td><td>139.4</td><td>139.4</td><td>390</td><td>91</td><td>346/344</td><td>-</td></tr>
-<tr><td>10</td><td>Aula</td><td>208.1</td><td>208.1</td><td>211</td><td>72</td><td>432/437</td><td>-</td></tr>
-<tr><td>10</td><td>Bônus</td><td>140.1</td><td>140.0</td><td>334</td><td>89</td><td>373/373</td><td>32</td></tr>
-<tr><td>11</td><td>Candle</td><td>140.1</td><td>140.0</td><td>368</td><td>86</td><td>357/355</td><td>-</td></tr>
-<tr><td>12</td><td>Materiais</td><td>206.0</td><td>205.9</td><td>447</td><td>75</td><td>320/313</td><td>-</td></tr>
-<tr><td>12</td><td>complementares</td><td>138.5</td><td>138.4</td><td>683</td><td>81</td><td>198/199</td><td>32</td></tr>
+<tr><td>06</td><td>Análise</td><td>205.0</td><td>205.0</td><td>359</td><td>81</td><td>360/361</td><td>-</td></tr>
+<tr><td>06</td><td>técnica</td><td>137.5</td><td>137.5</td><td>387</td><td>91</td><td>346/347</td><td>32</td></tr>
+<tr><td>07</td><td>Tributação</td><td>138.9</td><td>138.9</td><td>593</td><td>109</td><td>243/244</td><td>-</td></tr>
+<tr><td>08</td><td>Síntese</td><td>139.4</td><td>139.4</td><td>390</td><td>91</td><td>346/344</td><td>-</td></tr>
+<tr><td>09</td><td>Aula</td><td>208.1</td><td>208.1</td><td>211</td><td>72</td><td>432/437</td><td>-</td></tr>
+<tr><td>09</td><td>bônus</td><td>140.1</td><td>140.0</td><td>328</td><td>89</td><td>375/377</td><td>32</td></tr>
+<tr><td>10</td><td>Candle</td><td>140.1</td><td>140.0</td><td>368</td><td>86</td><td>357/355</td><td>-</td></tr>
+<tr><td>11</td><td>Materiais</td><td>206.0</td><td>205.9</td><td>447</td><td>75</td><td>320/313</td><td>-</td></tr>
+<tr><td>11</td><td>complementares</td><td>138.5</td><td>138.4</td><td>683</td><td>81</td><td>198/199</td><td>32</td></tr>
 </table>
 <h3 style="margin-top:22px">Acentos</h3>
-<ul><li>113 textos checados: glifos ausentes nas fontes = 0; formas sem acento = 0.</li>
-<li>Títulos das 13 capas x grafia sugerida do guia: 13/13 idênticos (ex.: Índices/Análise Técnica/Tributação/Síntese/Bônus).</li></ul>
+<ul><li>111 textos checados: glifos ausentes nas fontes = 0; formas sem acento = 0.</li>
+<li>Títulos das 12 capas x grafia sugerida do guia: 12/12 idênticos (ex.: Índices/Análise Técnica/Tributação/Síntese/Bônus).</li></ul>
 <h3>Compliance visual (CVM)</h3>
 <ul><li>Cor de alta/baixa: vermelho 0.0073% · verde 0.0031% do pixel (máximo entre as 25 peças).</li>
 <li>Palavras proibidas nos textos: 0 · cifrão nas cenas: não · seta nas cenas: não.</li>

diff --git a/area-de-membros/index.html b/area-de-membros/index.html
@@ -51,16 +51,16 @@ footer a{color:#5d616b;text-decoration:none}footer a:hover{color:var(--mut)}
 <div class="capas">
 <figure><a class="zoom" href="artes/modulo-00.png?v=20261125" data-alt="Módulo 00 - Comece por aqui"><img src="artes/modulo-00.png?v=20261125" width="1080" height="1350" loading="lazy" alt="Capa do módulo 00 - Comece por aqui"></a><figcaption>Módulo 00 - Comece por aqui</figcaption></figure>
 <figure><a class="zoom" href="artes/modulo-01.png?v=20261125" data-alt="Módulo 01 - Boas-vindas"><img src="artes/modulo-01.png?v=20261125" width="1080" height="1350" loading="lazy" alt="Capa do módulo 01 - Boas-vindas"></a><figcaption>Módulo 01 - Boas-vindas</figcaption></figure>
-<figure><a class="zoom" href="artes/modulo-02.png?v=20261125" data-alt="Módulo 02 - Ambiente de Mercado"><img src="artes/modulo-02.png?v=20261125" width="1080" height="1350" loading="lazy" alt="Capa do módulo 02 - Ambiente de Mercado"></a><figcaption>Módulo 02 - Ambiente de Mercado</figcaption></figure>
+<figure><a class="zoom" href="artes/modulo-02.png?v=20261125b" data-alt="Módulo 02 - Ambiente de mercado"><img src="artes/modulo-02.png?v=20261125b" width="1080" height="1350" loading="lazy" alt="Capa do módulo 02 - Ambiente de mercado"></a><figcaption>Módulo 02 - Ambiente de mercado</figcaption></figure>
 <figure><a class="zoom" href="artes/modulo-03.png?v=20261125" data-alt="Módulo 03 - Mercado de ações"><img src="artes/modulo-03.png?v=20261125" width="1080" height="1350" loading="lazy" alt="Capa do módulo 03 - Mercado de ações"></a><figcaption>Módulo 03 - Mercado de ações</figcaption></figure>
 <figure><a class="zoom" href="artes/modulo-04.png?v=20261125" data-alt="Módulo 04 - Plataforma de negociação"><img src="artes/modulo-04.png?v=20261125" width="1080" height="1350" loading="lazy" alt="Capa do módulo 04 - Plataforma de negociação"></a><figcaption>Módulo 04 - Plataforma de negociação</figcaption></figure>
 <figure><a class="zoom" href="artes/modulo-05.png?v=20261125" data-alt="Módulo 05 - Introdução à metodologia"><img src="artes/modulo-05.png?v=20261125" width="1080" height="1350" loading="lazy" alt="Capa do módulo 05 - Introdução à metodologia"></a><figcaption>Módulo 05 - Introdução à metodologia</figcaption></figure>
-<figure><a class="zoom" href="artes/modulo-07.png?v=20261125" data-alt="Módulo 07 - Análise Técnica"><img src="artes/modulo-07.png?v=20261125" width="1080" height="1350" loading="lazy" alt="Capa do módulo 07 - Análise Técnica"></a><figcaption>Módulo 07 - Análise Técnica</figcaption></figure>
-<figure><a class="zoom" href="artes/modulo-08.png?v=20261125" data-alt="Módulo 08 - Tributação"><img src="artes/modulo-08.png?v=20261125" width="1080" height="1350" loading="lazy" alt="Capa do módulo 08 - Tributação"></a><figcaption>Módulo 08 - Tributação</figcaption></figure>
-<figure><a class="zoom" href="artes/modulo-09.png?v=20261125" data-alt="Módulo 09 - Síntese"><img src="artes/modulo-09.png?v=20261125" width="1080" height="1350" loading="lazy" alt="Capa do módulo 09 - Síntese"></a><figcaption>Módulo 09 - Síntese</figcaption></figure>
-<figure><a class="zoom" href="artes/modulo-10.png?v=20261125" data-alt="Módulo 10 - Aula Bônus"><img src="artes/modulo-10.png?v=20261125" width="1080" height="1350" loading="lazy" alt="Capa do módulo 10 - Aula Bônus"></a><figcaption>Módulo 10 - Aula Bônus</figcaption></figure>
-<figure><a class="zoom" href="artes/modulo-11.png?v=20261125" data-alt="Módulo 11 - Candle"><img src="artes/modulo-11.png?v=20261125" width="1080" height="1350" loading="lazy" alt="Capa do módulo 11 - Candle"></a><figcaption>Módulo 11 - Candle</figcaption></figure>
-<figure><a class="zoom" href="artes/modulo-12.png?v=20261125" data-alt="Módulo 12 - Materiais complementares"><img src="artes/modulo-12.png?v=20261125" width="1080" height="1350" loading="lazy" alt="Capa do módulo 12 - Materiais complementares"></a><figcaption>Módulo 12 - Materiais complementares</figcaption></figure>
+<figure><a class="zoom" href="artes/modulo-06.png?v=20261125b" data-alt="Módulo 06 - Análise técnica"><img src="artes/modulo-06.png?v=20261125b" width="1080" height="1350" loading="lazy" alt="Capa do módulo 06 - Análise técnica"></a><figcaption>Módulo 06 - Análise técnica</figcaption></figure>
+<figure><a class="zoom" href="artes/modulo-07.png?v=20261125b" data-alt="Módulo 07 - Tributação"><img src="artes/modulo-07.png?v=20261125b" width="1080" height="1350" loading="lazy" alt="Capa do módulo 07 - Tributação"></a><figcaption>Módulo 07 - Tributação</figcaption></figure>
+<figure><a class="zoom" href="artes/modulo-08.png?v=20261125b" data-alt="Módulo 08 - Síntese"><img src="artes/modulo-08.png?v=20261125b" width="1080" height="1350" loading="lazy" alt="Capa do módulo 08 - Síntese"></a><figcaption>Módulo 08 - Síntese</figcaption></figure>
+<figure><a class="zoom" href="artes/modulo-09.png?v=20261125b" data-alt="Módulo 09 - Aula bônus"><img src="artes/modulo-09.png?v=20261125b" width="1080" height="1350" loading="lazy" alt="Capa do módulo 09 - Aula bônus"></a><figcaption>Módulo 09 - Aula bônus</figcaption></figure>
+<figure><a class="zoom" href="artes/modulo-10.png?v=20261125b" data-alt="Módulo 10 - Candle"><img src="artes/modulo-10.png?v=20261125b" width="1080" height="1350" loading="lazy" alt="Capa do módulo 10 - Candle"></a><figcaption>Módulo 10 - Candle</figcaption></figure>
+<figure><a class="zoom" href="artes/modulo-11.png?v=20261125b" data-alt="Módulo 11 - Materiais complementares"><img src="artes/modulo-11.png?v=20261125b" width="1080" height="1350" loading="lazy" alt="Capa do módulo 11 - Materiais complementares"></a><figcaption>Módulo 11 - Materiais complementares</figcaption></figure>
 </div>
 </div></section>
 

diff --git a/index.html b/index.html
@@ -260,7 +260,7 @@
     </div>
   </div>
   <figure class="programa__capas rv">
-    <img src="assets/img/mockup-capas-modulos.webp?v=20261125" width="2400" height="1200" loading="lazy" decoding="async" alt="Capas dos 12 módulos do curso dispostas em leque tridimensional">
+    <img src="assets/img/mockup-capas-modulos.webp?v=20261125b" width="2400" height="1200" loading="lazy" decoding="async" alt="Capas dos 12 módulos do curso dispostas em leque tridimensional">
   </figure>
   <div class="wrap">
     <ol class="modulos">
@@ -326,7 +326,7 @@
   <figure class="funciona__telas rv">
     <img class="funciona__grade" src="assets/img/el-grid-linhas.webp?v=20261125" width="2400" height="1350" alt="" aria-hidden="true" loading="lazy">
     <img class="funciona__brilho" src="assets/img/el-brilho-latao.webp?v=20261125" width="1200" height="1200" alt="" aria-hidden="true" loading="lazy">
-    <img class="funciona__mock" src="assets/img/mockup-dispositivos-area-membros.webp?v=20261125" width="2400" height="1018" loading="lazy" decoding="async" alt="Área de membros do curso de investimentos para iniciantes aberta em tablet, notebook e celular, com banners e capas dos módulos">
+    <img class="funciona__mock" src="assets/img/mockup-dispositivos-area-membros.webp?v=20261125b" width="2400" height="1018" loading="lazy" decoding="async" alt="Área de membros do curso de investimentos para iniciantes aberta em tablet, notebook e celular, com banners e capas dos módulos">
   </figure>
   <div class="wrap">
     <ol class="passos">
